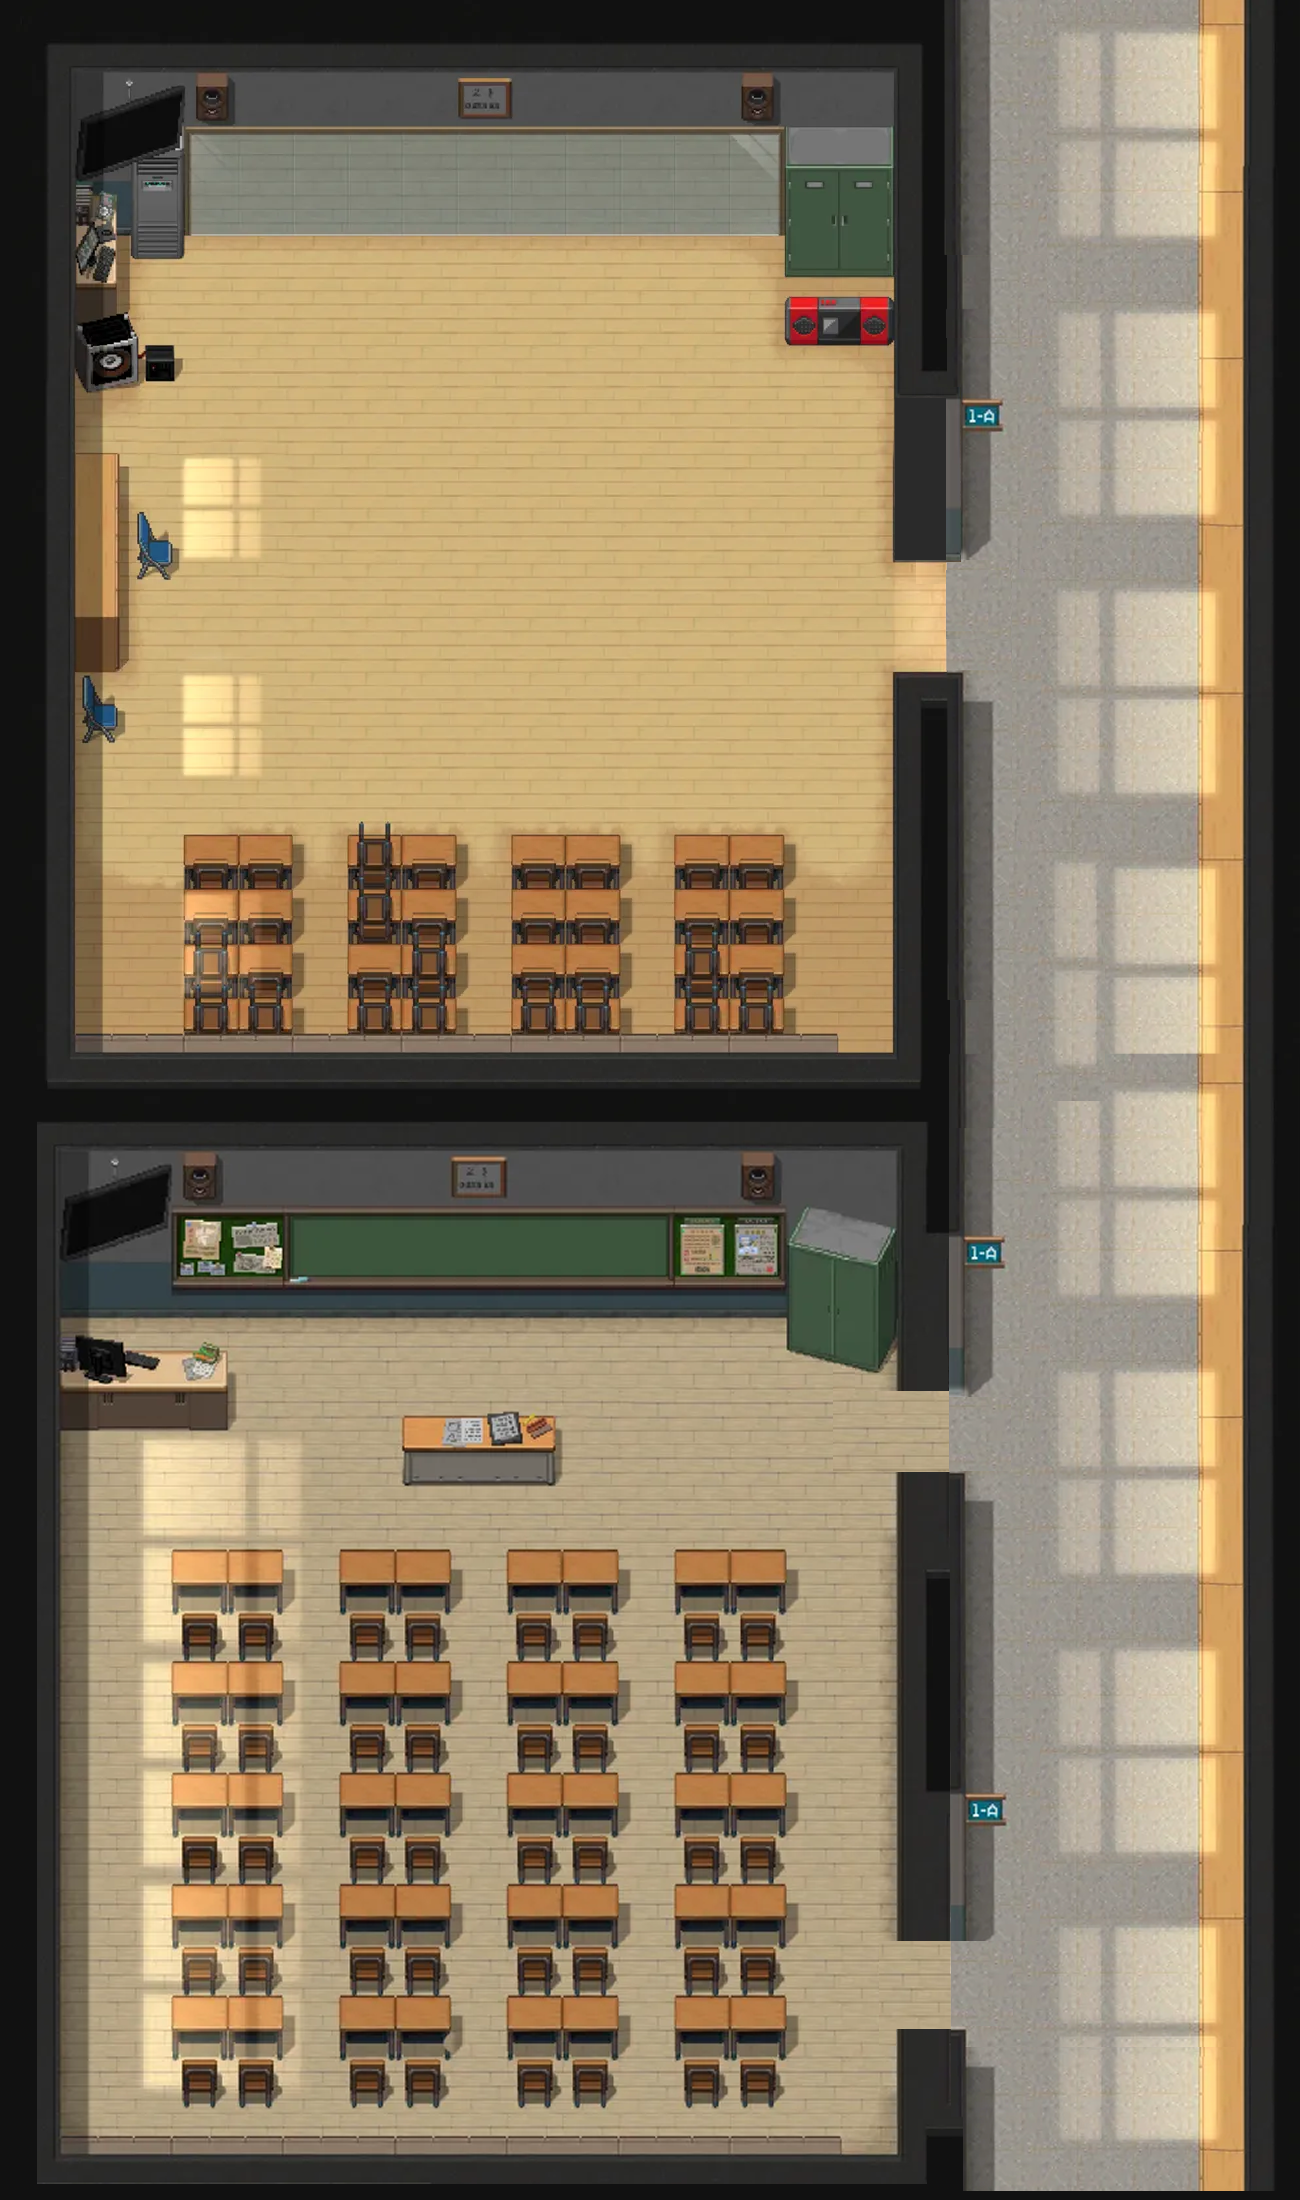
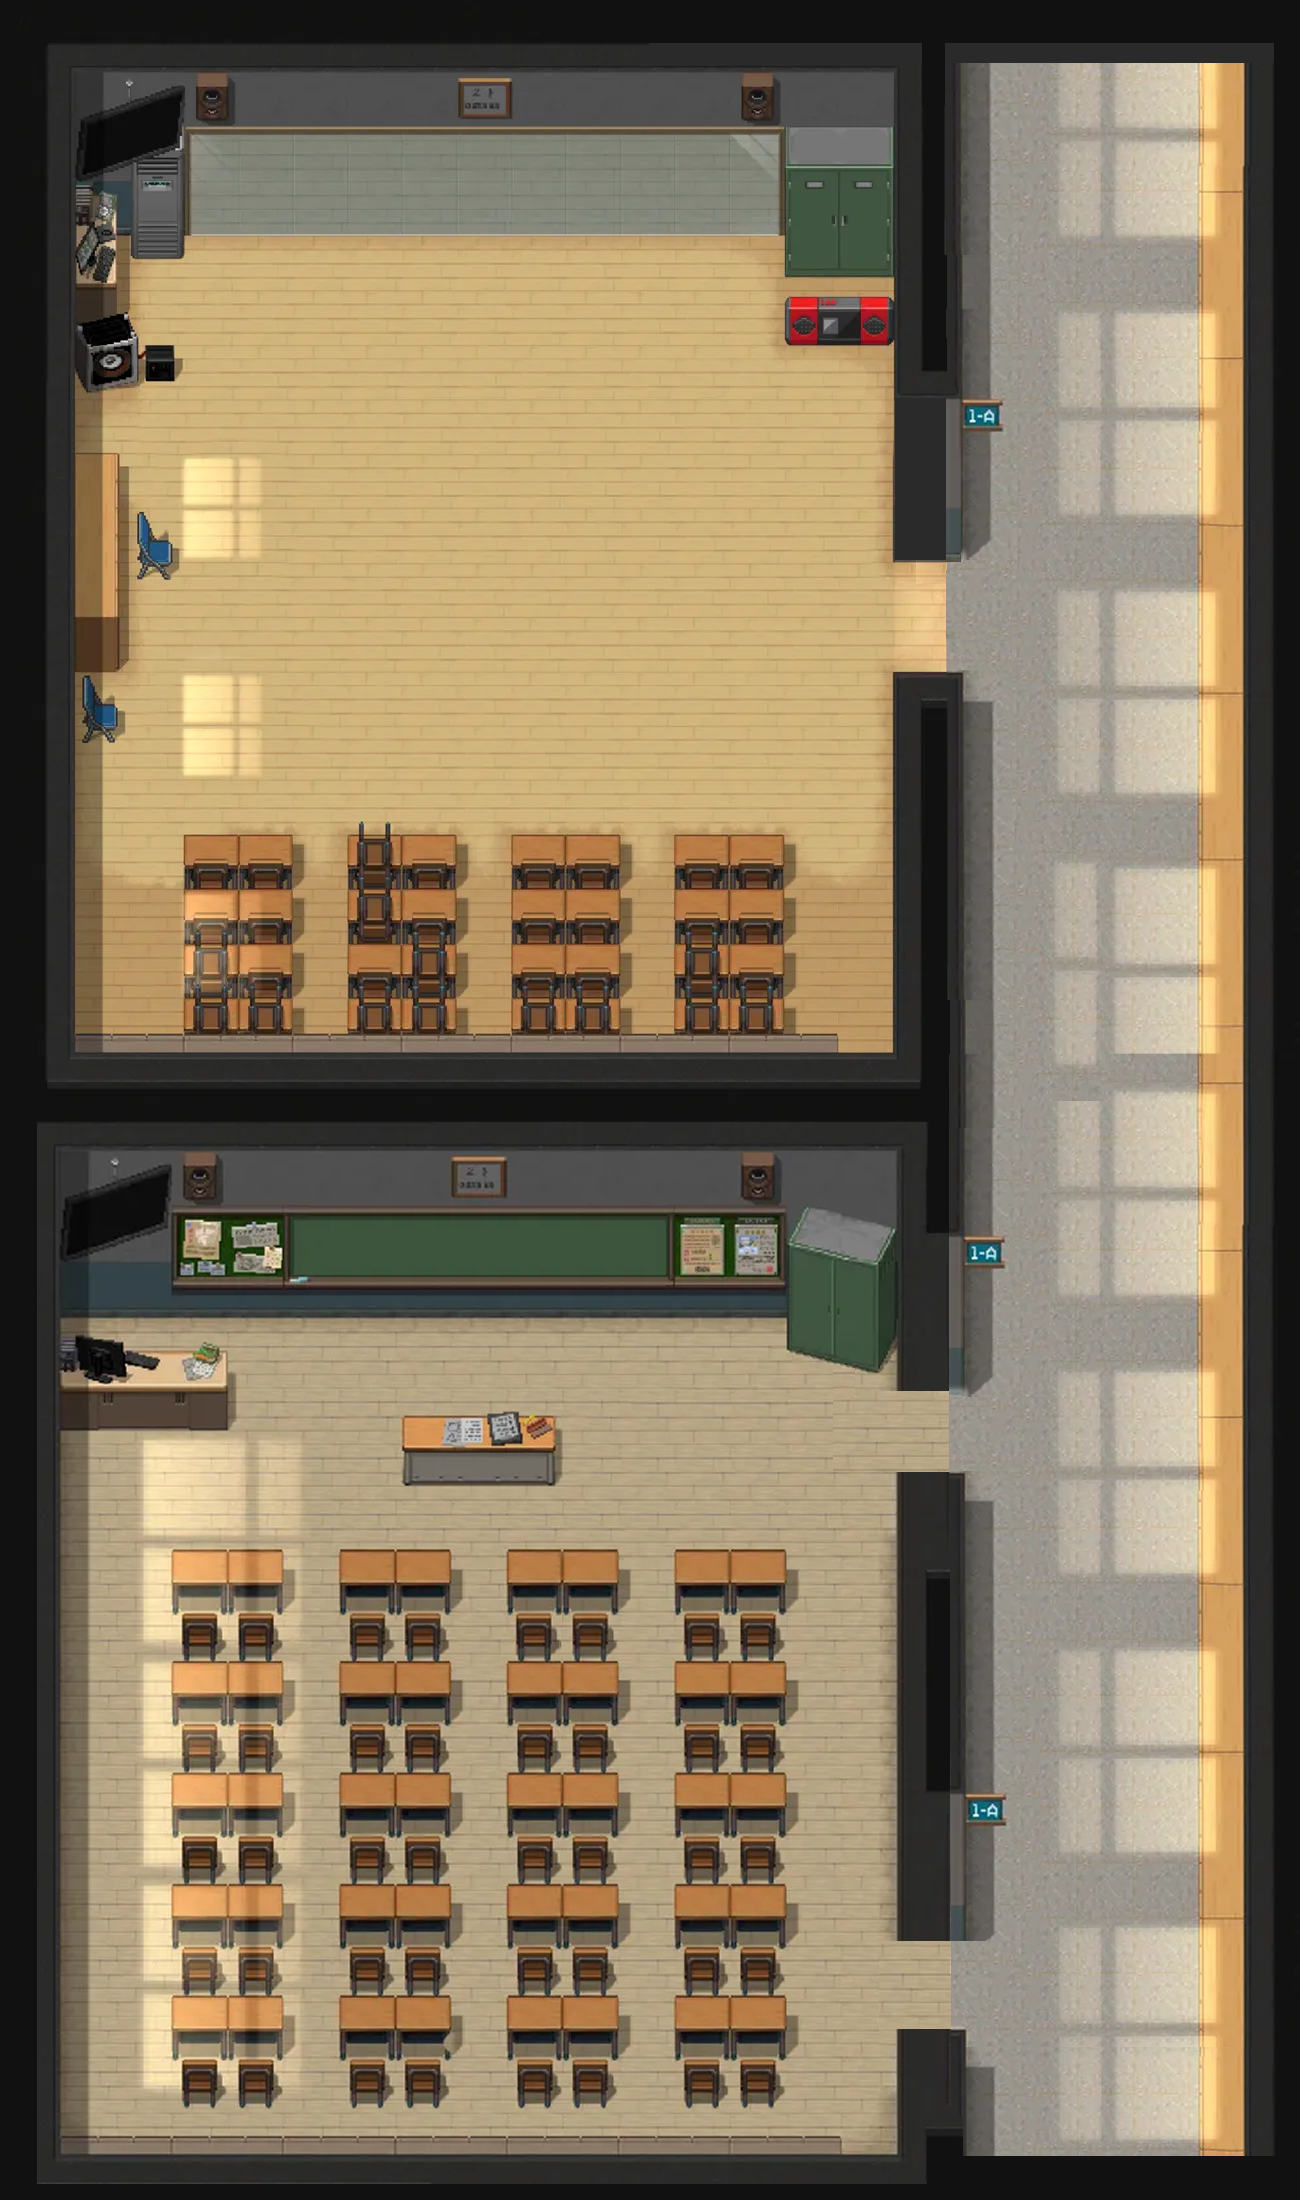
11/29 배경 약간 수정/ 정적 장애물 약간 수정

Changed region(s): [[0.7385, 0.9582, 0.9846, 1.0], [0.7077, 0.0, 0.9846, 0.0309]]

diff --git a/player.py b/player.py
@@ -87,7 +87,7 @@ class Run:
         bg_x1,bg_y1= server.b_g.check()
         player.frame = 3+(player.frame + FRAMES_PER_ACTION*ACTION_PER_TIME*game_framework.frame_time) %3
         if player.dir==0:
-            if player.y<=850 :
+            if player.y<=900 :
                 player.y += 1* RUN_SPEED_PPS * game_framework.frame_time
             elif bg_y1<=1400 and player.y>=800:
                 server.b_g.update(0.5)

diff --git a/object_wall.py b/object_wall.py
@@ -51,7 +51,7 @@ server.walls.append(wall)
 wall = Wall(500, 750, 680, 700)     #교탁
 game_world.add_object(wall, 1)
 server.walls.append(wall)
-wall = Wall(0, 1230, 1100, 905)  # 칠판벽
+wall = Wall(0, 1230, 1020, 905)  # 칠판벽
 game_world.add_object(wall, 1)
 server.walls.append(wall)
 wall = Wall(50, 830, 280, 750)  # 선생님책상
